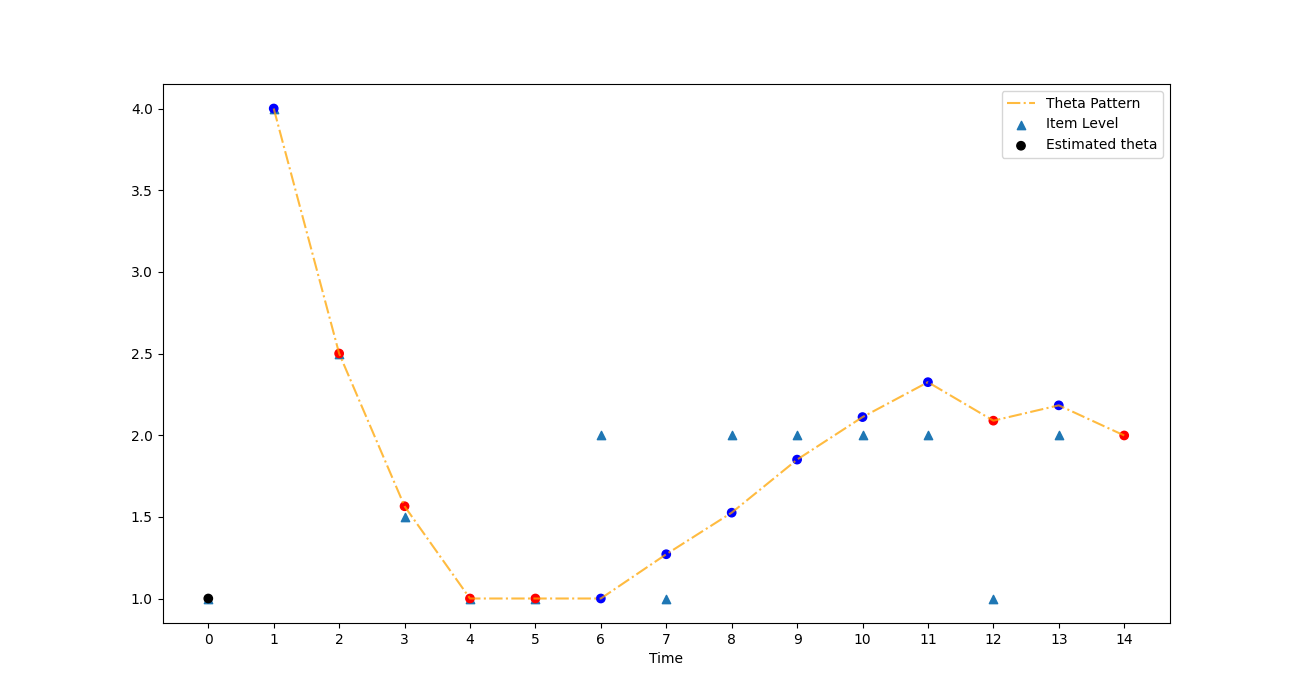
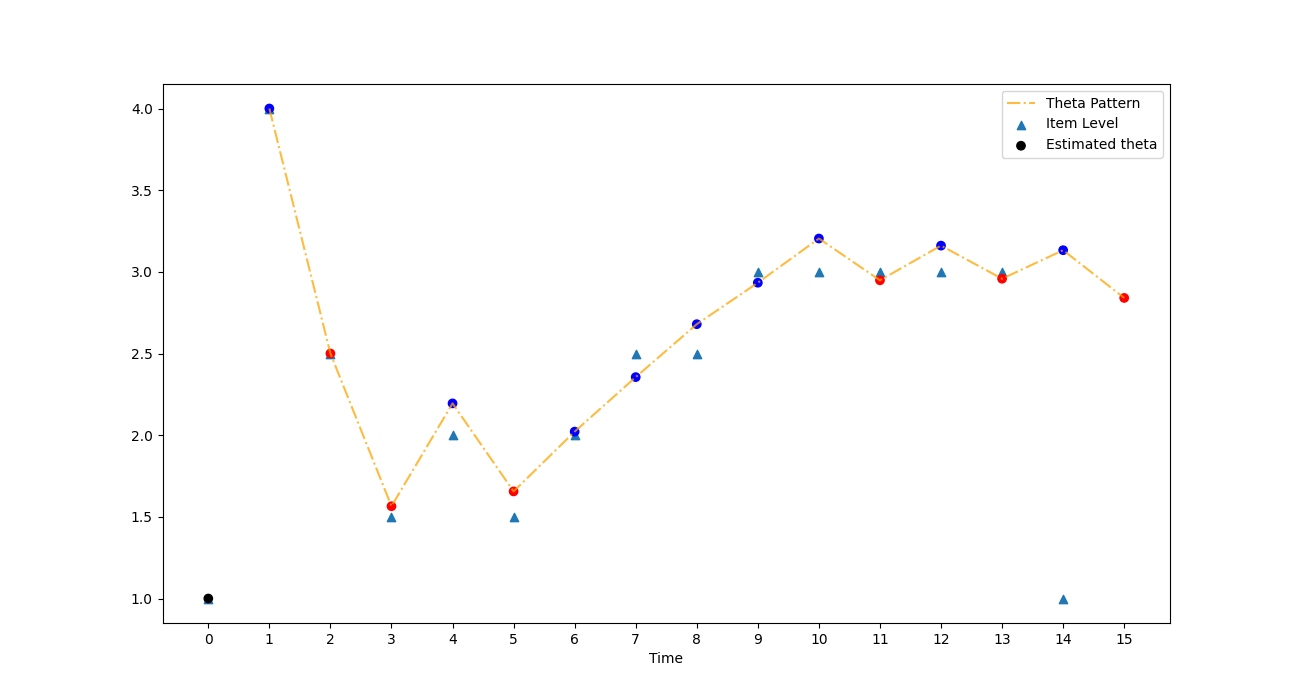
add selection question with distance

diff --git a/catsim/selection.py b/catsim/selection.py
@@ -1,16 +1,18 @@
-from app import redis_client
+from app import redis_client, question_collection, tfidf
 from app.utils import get_cb_data
 from pprint import pprint
 from abc import abstractmethod
 from warnings import warn
 import pandas as pd
-
+import pickle
+import time
 import numpy as np
 from scipy.integrate import quad
 import numexpr as ne
-
+import concurrent.futures as cf
 from catsim import irt
 from catsim.simulation import Selector, FiniteSelector
+from sklearn.metrics.pairwise import cosine_similarity
 
 
 class MaxInfoSelector(Selector):
@@ -156,21 +158,44 @@ class MaxInfoGroupWithRandomSelector(Selector):
             # câu hỏi đầu tiên
             return np.random.choice(valid_indexes)
 
-        # def prepare_question_for_tfidf(question_idx) -> dict:
-        #     question_code = get_question(question_idx)
-        #     question_contents = list(question_collection.find({'code': question_code}, {
-        #                             '_id': 0, 'question_contents': 1}))
-        #     print(question_contents)
-        #     question_contents = question_contents[0].get('question_contents', [])
-        #     text = ' '.join([foo['content']
-        #                     for foo in question_contents if foo['variety'] == 'TEXT'])
-        #     return text
+        def prepare_question_for_tfidf(question_idx) -> dict:
+            question_code = items[question_idx, -1] # last column is question code column
+            # start_time = time.perf_counter()
+            question_contents = list(question_collection.find({'code': question_code}, {'_id': 0, 'question_contents': 1}))
+            # end_time = time.perf_counter()
+            # print("Get one question {}".format(end_time - start_time))
+            question_contents = question_contents[0].get('question_contents', [])
+            text = ' '.join([foo['content'] for foo in question_contents if foo['variety'] == 'TEXT'])
+            
+            return text
 
-        # last_question_idx = administered_items[-1]
+        def prepare_text(question):
+            text = ' '.join([foo['content'] for foo in question['question_contents'] if foo['variety'] == 'TEXT'])
+            return text
 
-        # list_questions = list(map(lambda idx: prepare_question_for_tfidf(idx), valid_indexes))
-        # print(list_questions)
+        # last questions
+        last_question_idx = administered_items[-1]
+        last_question = [prepare_question_for_tfidf(last_question_idx)]
+        last_question_transformed = tfidf.transform(last_question)
+        
+        # get list question data
+        list_question_code = items[valid_indexes, -1].tolist()
+        list_questions = question_collection.find({'code': {'$in': list_question_code}}, {'_id': 0, 'question_contents': 1})
 
+        print("Executing things:")
+        with cf.ThreadPoolExecutor() as executor:
+            list_questions = executor.map(prepare_text, list_questions)
+            list_questions = list(list_questions)
+        print("Done")
+
+        question_transformed = tfidf.transform(list_questions)
+        distance = cosine_similarity(last_question_transformed, question_transformed).reshape(-1, 1)
+
+        valid_indexes = np.array([
+            index for dist_val, index in sorted(zip(distance, valid_indexes), key=lambda x: x[0], reverse=True)
+        ])
+
+        valid_indexes = valid_indexes[:10]
 
         return np.random.choice(valid_indexes)
 

diff --git a/catsim/irt.py b/catsim/irt.py
@@ -39,7 +39,8 @@ def _split_params(items: np.ndarray):
     item[0] is index 
     :param items: an item matrix with four columns representing four parameters.
     :returns: a 4-tuple with each column in a different slot."""
-    return items[:, 1], items[:, 2], items[:, 3], items[:, 4]
+    mini_items = items[:, 1:5].astype('float')
+    return mini_items[:, 0], mini_items[:, 1], mini_items[:, 2], mini_items[:, 3]
 
 
 def icc_hpc(theta: float, items: np.ndarray) -> np.ndarray:
@@ -50,7 +51,6 @@ def icc_hpc(theta: float, items: np.ndarray) -> np.ndarray:
     :param items: array containing the four item parameters.
     :returns: an array of all item characteristic functions, given the current ``theta``"""
     a, b, c, d = _split_params(items)
-
     # just the P(theta|a, b, c, d) of 4PL models
     return numexpr.evaluate('c + ((d - c) / (1 + exp((-a * (theta - b)))))')
 

diff --git a/app/__init__.py b/app/__init__.py
@@ -2,7 +2,10 @@ import os
 import redis
 from flask import Flask
 from flask_cors import CORS
+import pickle
+import numpy as np
 from pymongo import MongoClient
+from sklearn.feature_extraction.text import TfidfVectorizer
 # import firebase_admin
 # from firebase_admin import credentials
 # from firebase_admin import storage
@@ -21,6 +24,14 @@ question_collection = db['questions']
 # })
 
 # bucket = storage.bucket('cat_img')
+
+# tfidf
+vocab = pickle.load(open('data/tfidf/vocab.pkl', 'rb'))
+idf = np.load('data/tfidf/idf.npz')['idf']
+tfidf = TfidfVectorizer()
+tfidf.vocabulary_ = vocab
+tfidf.idf_ = idf
+
 
 status_code = dict(
     SUCCESS=1,

diff --git a/catsim/catsimulator.py b/catsim/catsimulator.py
@@ -39,6 +39,10 @@ item_bank_1PL[:, 1] = df.level.values
 index_col = np.arange(df.shape[0]).reshape(-1, 1)
 item_bank_1PL = np.concatenate((index_col, item_bank_1PL), axis=1)
 
+# question code is the last column
+code = df['code'].values.reshape(-1, 1)
+item_bank_1PL = np.concatenate((item_bank_1PL, code), axis=1)
+
 # prepare CAT class
 initializer = FixedPointInitializer(ability_bound[0])
 selector = MaxInfoGroupWithRandomSelector()
